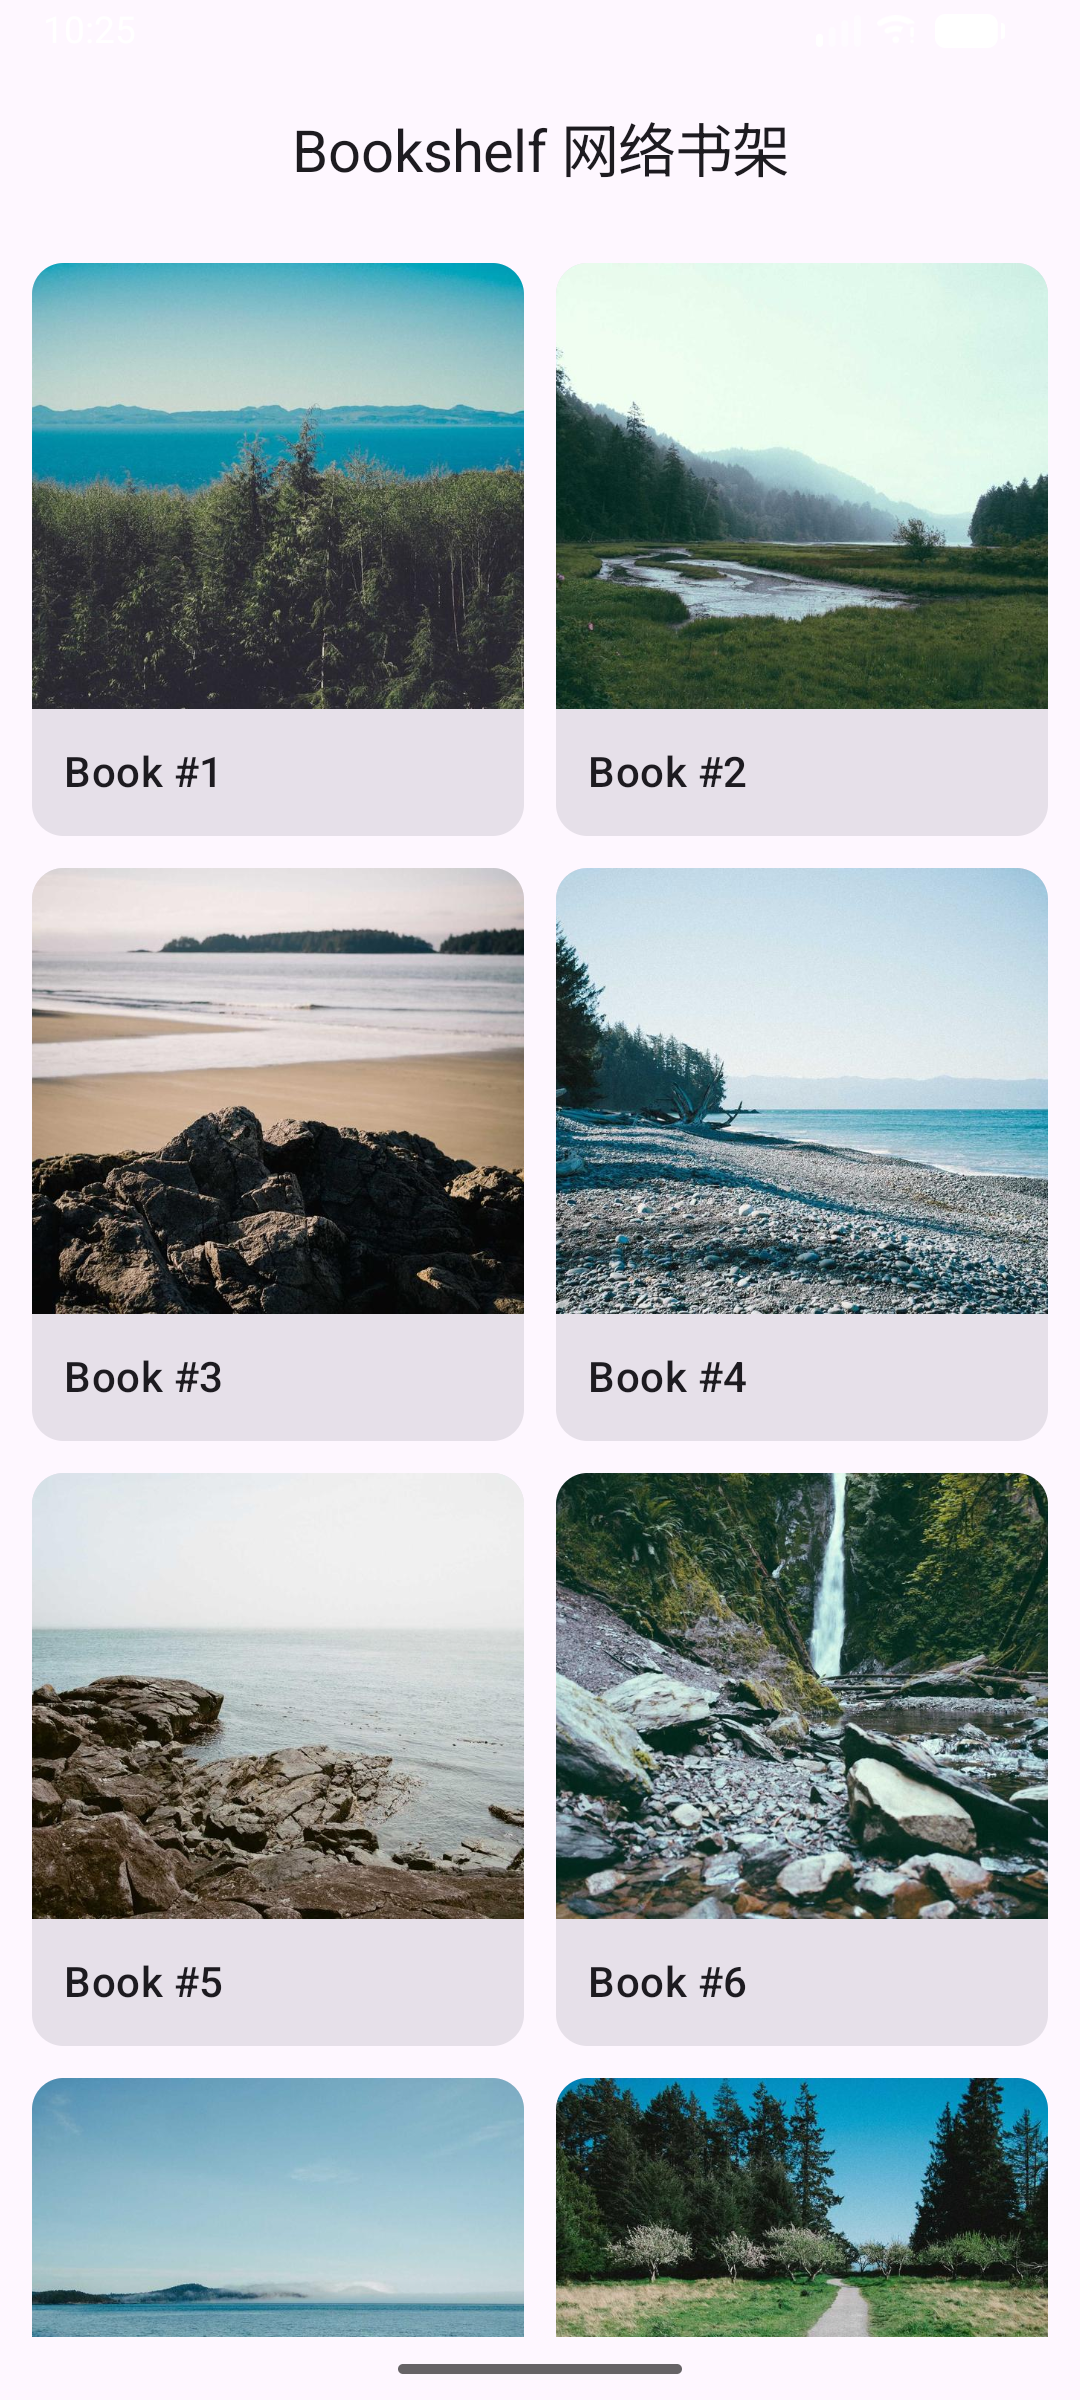
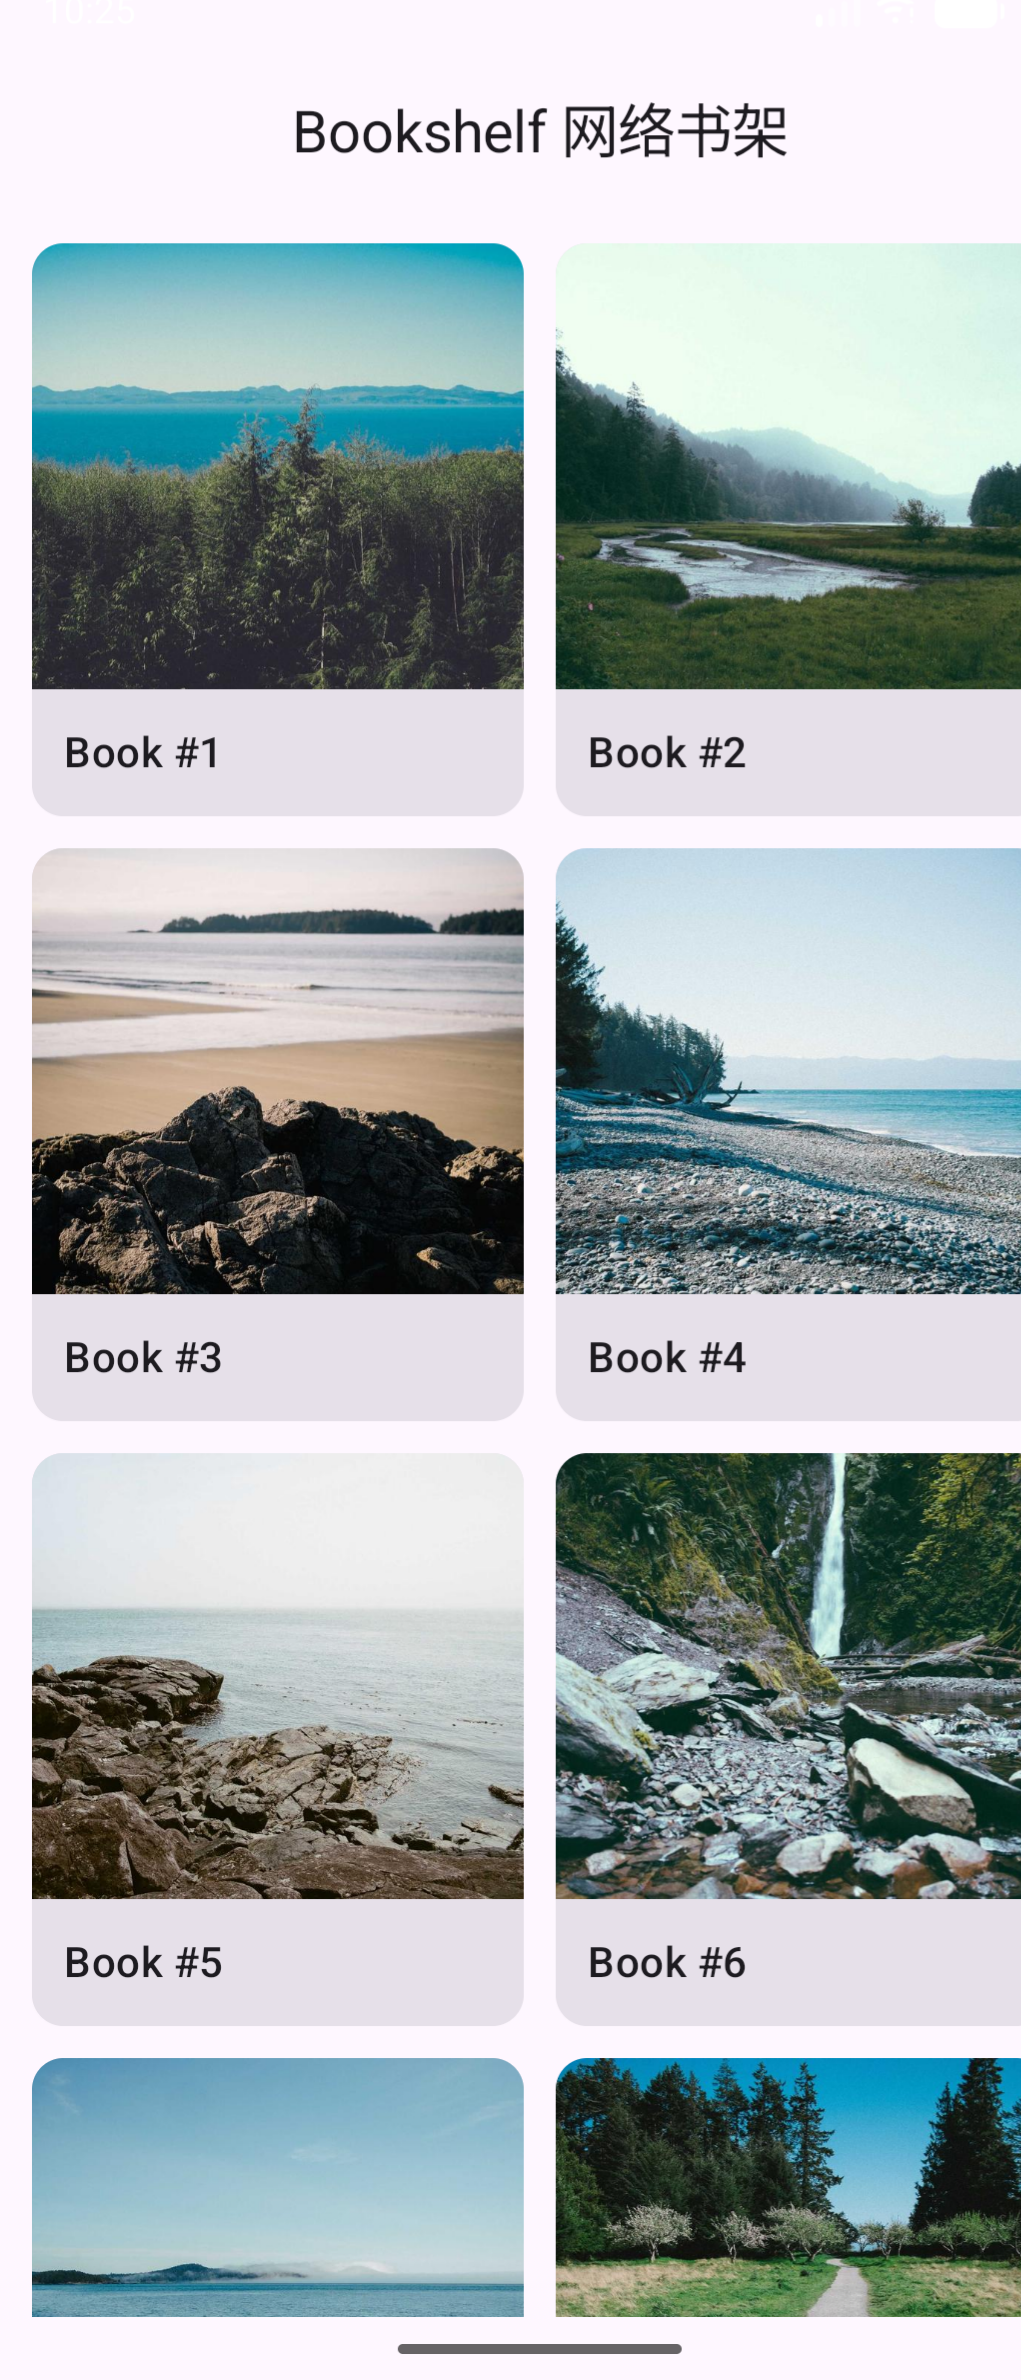
完成Lab13作业

diff --git a/2025003007欧加春/Lab13/ApiConfig.kt b/2025003007欧加春/Lab13/ApiConfig.kt
@@ -2,4 +2,4 @@ package com.example.bookshelf.network
 
 object ApiConfig {
     const val BASE_URL = "https://m1.apifoxmock.com/m1/8321477-8085280-default/"
-}
+}  

diff --git a/2025003007欧加春/Lab13/AppContainer.kt b/2025003007欧加春/Lab13/AppContainer.kt
@@ -23,4 +23,4 @@ class DefaultAppContainer : AppContainer {
     override val booksRepository: BooksRepository by lazy {
         NetworkBooksRepository(retrofitService)
     }
-}
+}  

diff --git a/2025003007欧加春/Lab13/Book.kt b/2025003007欧加春/Lab13/Book.kt
@@ -4,4 +4,4 @@ data class Book(
     val id: String,
     val title: String,
     val coverUrl: String
-)
+)  

diff --git a/2025003007欧加春/Lab13/BookDto.kt b/2025003007欧加春/Lab13/BookDto.kt
@@ -15,4 +15,4 @@ fun BookDto.asExternalModel(): Book {
         title = "Book #$id",
         coverUrl = imgSrc
     )
-}
+}   

diff --git a/2025003007欧加春/Lab13/BooksRepository.kt b/2025003007欧加春/Lab13/BooksRepository.kt
@@ -77,4 +77,4 @@ class OfflineBooksRepository : BooksRepository {
             book.id == id
         } ?: throw NoSuchElementException("未找到编号为 $id 的图书")
     }
-}
+}      

diff --git a/2025003007欧加春/Lab13/BookshelfApiService.kt b/2025003007欧加春/Lab13/BookshelfApiService.kt
@@ -7,4 +7,4 @@ interface BookshelfApiService {
 
     @GET("photos")
     suspend fun getBooks(): List<BookDto>
-}
+}  

diff --git a/2025003007欧加春/Lab13/BookshelfApplication.kt b/2025003007欧加春/Lab13/BookshelfApplication.kt
@@ -12,4 +12,4 @@ class BookshelfApplication : Application() {
         super.onCreate()
         container = DefaultAppContainer()
     }
-}
+}   

diff --git a/2025003007欧加春/Lab13/BookshelfScreen.kt b/2025003007欧加春/Lab13/BookshelfScreen.kt
@@ -249,4 +249,4 @@ fun BookDetailDialog(
             }
         }
     )
-}
+}   

diff --git a/2025003007欧加春/Lab13/BookshelfViewModel.kt b/2025003007欧加春/Lab13/BookshelfViewModel.kt
@@ -89,4 +89,4 @@ class BookshelfViewModel(
             }
         }
     }
-}
+}     